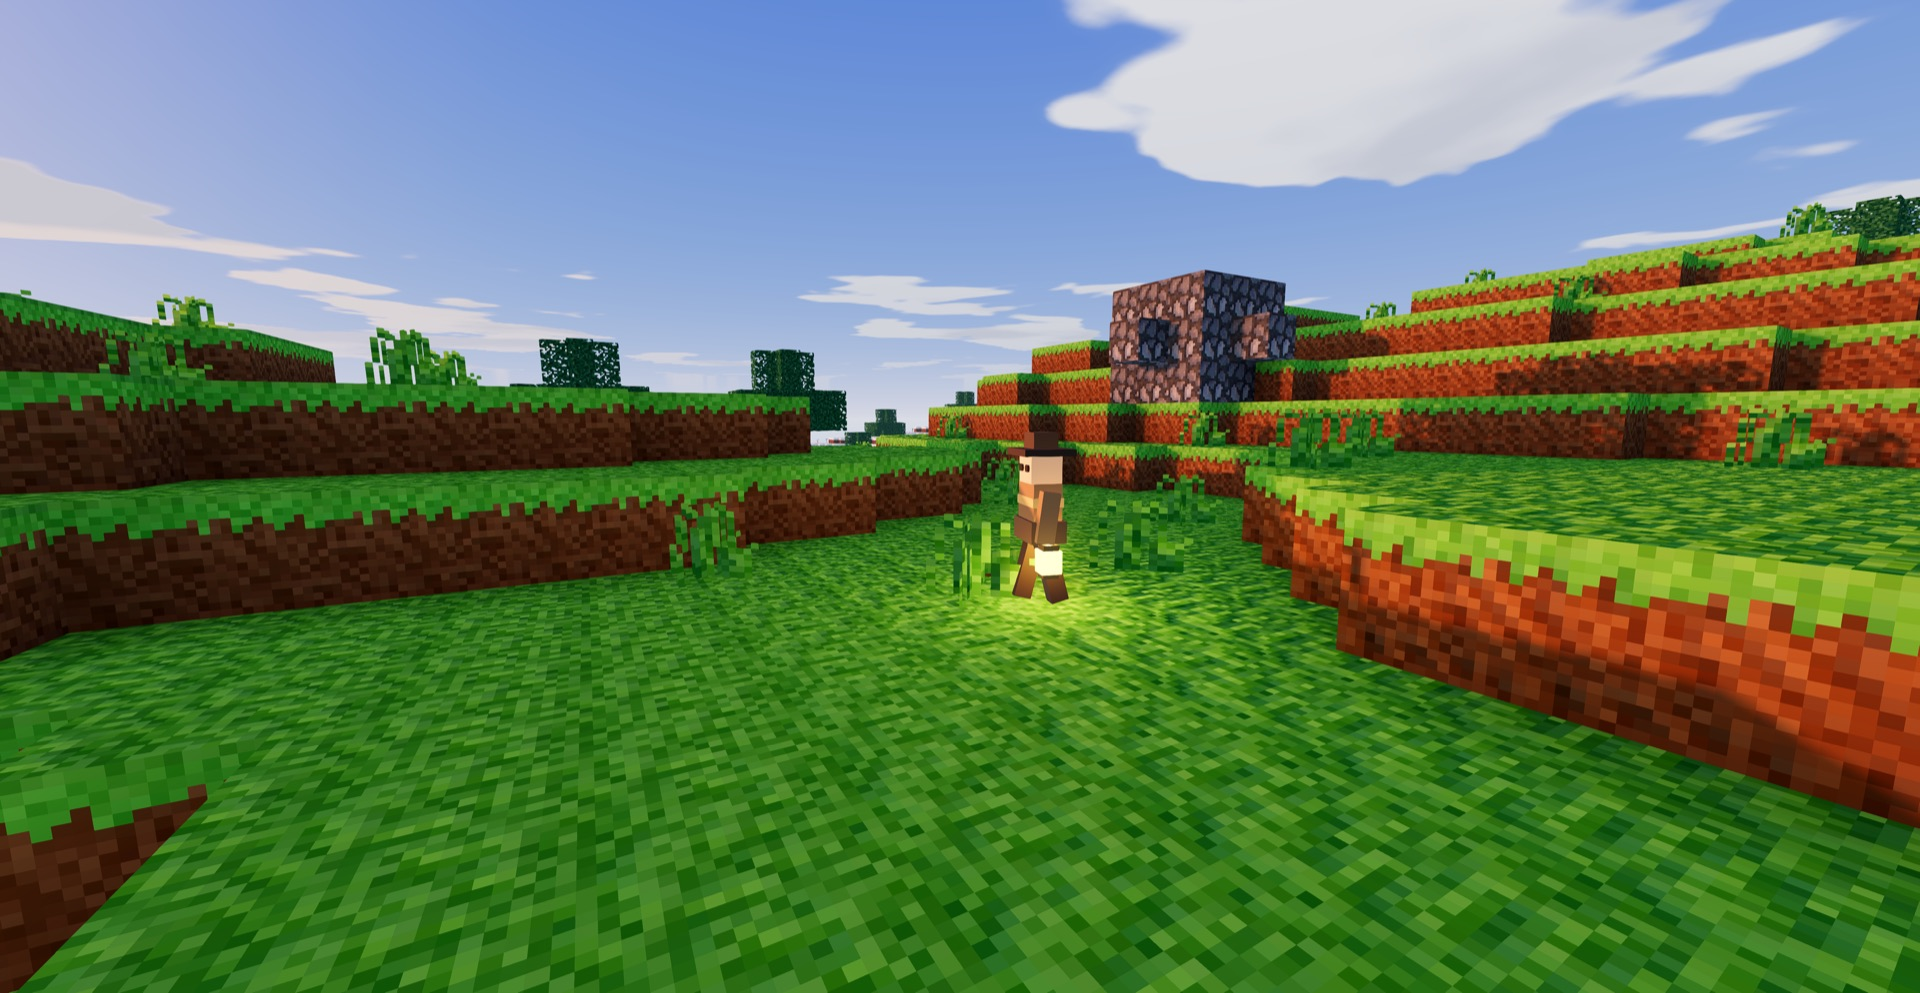
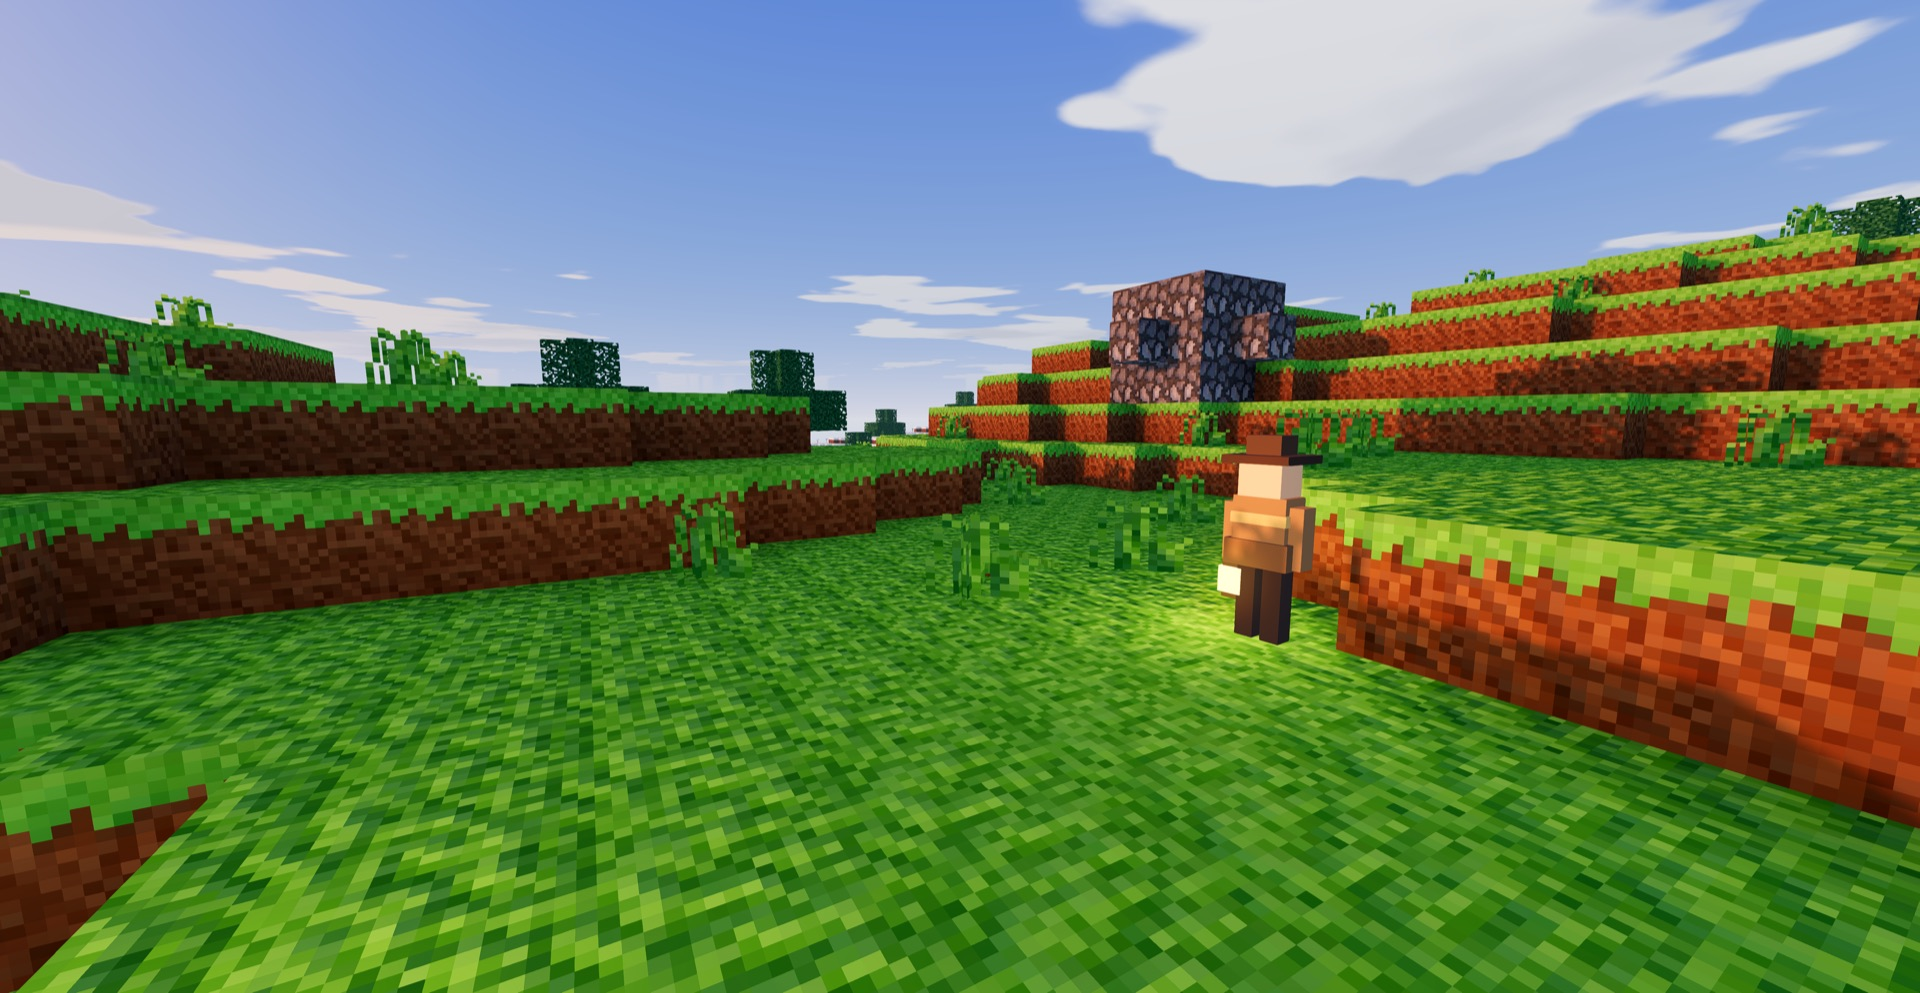
A screenshot pass, and the limit a camera runs into
The eyebrow drops the platforms, the section heading counts four worlds, and a
card with no picture keeps its column - an empty panel holds the place, so the
alternation survives and the picture drops in later without anything else
moving. Spanning the row made that game look like an afterthought.

The hero works: Wick at about 85% across, in the right half and clear of the
text scrim, at dusk, close enough to read his hat and coat with his lamp lit.

How he got there is worth recording, because it is not repeatable. /summon
spawns in front of the camera, so a summoned creature always lands dead centre;
/tp takes absolute coordinates and the spawn point is not known before the world
generates; and Wick walks, so where he is at the shutter depends on the wait.
Three seconds put him at 85%, seven put him out of frame, and summoning two gave
one perfect and one filling the lens. Trimming a side does move the subject and
costs the aspect ratio, which a full-bleed hero cannot spare, so that came out
again.

The other three could not be taken at all. Firstlight in lamplight was tried in
the descent and came back as fog with a faint Wick and no floor, because a floor
is dark and still streaming when the shutter fires. The fairground wants several
players in a running round. One Block wants machines and Creative wants
something built, and there is no setblock or fill command and only two structure
templates, both Firstlight's. All three fail for one reason: a freshly generated
[…]

diff --git a/site/landing/index.html b/site/landing/index.html
@@ -23,7 +23,7 @@
   <img class="hero-img" src="shots/hero.jpg"
        alt="A blocky valley at dusk, a lit lamp on a post and a cliff with veins of ore beyond it.">
   <div class="wrap">
-    <p class="name">Quarrowen &middot; a free block-building game for Mac and Windows</p>
+    <p class="name">Quarrowen &middot; a free block-building game</p>
     <h1>Run a world for <span>your people</span>.</h1>
     <p>Start a world and everyone you invite just clicks Join. The world brings the game with it - its
     blocks, creatures, rules, whole games - so there are no mod folders, no accounts, and nothing to
@@ -44,7 +44,7 @@
 <div class="wrap">
 
 <section id="play">
-  <h2>Same app. Three worlds. <span>Nothing installed in between.</span></h2>
+  <h2>Same app. Four worlds. <span>Nothing installed in between.</span></h2>
   <p class="sub">Each world on a server runs its own game, so you can walk through a portal out of a
   survival world and into a fairground of short games, and the app becomes that game on the way
   through. All four come in the download - play one on your own, or run them side by side and let your

diff --git a/site/landing/style.css b/site/landing/style.css
@@ -179,4 +179,9 @@
   details.under[open] summary { margin-bottom: 10px; }
   details.under p { margin: 0; }
   .lede { color: var(--ink); font-size: 17px; margin: 0 0 20px; max-width: 62ch; text-wrap: pretty; }
-  .game.no-shot { grid-template-columns: 1fr; }
+  .shot.pending {
+    display: grid; place-items: center; min-height: 190px;
+    background: linear-gradient(160deg, var(--panel-2), var(--panel));
+    border-style: dashed;
+  }
+  .shot.pending span { color: var(--muted); font-size: 13px; }

diff --git a/PROGRESS.md b/PROGRESS.md
@@ -10578,3 +10578,42 @@ The Fairground (avatars mid-round; its board currently says "Nobody has played t
 (an island part way to a factory). Both fail for one reason - **a freshly generated world has nobody in
 it and nothing built in it** - which is the same reason the portal clip needs recording rather than
 scripting. One play session gets all three.
+
+
+## A screenshot pass, and the limit it ran into (30 September 2026)
+
+Copy: the eyebrow is "Quarrowen · a free block-building game" and the section heading "Same app. Four
+worlds. Nothing installed in between." A card with no picture keeps its column now - an empty panel
+holds the place, so the left-right rhythm of the section survives and the picture drops in when it
+exists. Spanning the row made that game look like an afterthought.
+
+**The hero works.** Wick stands at about 85% across - the right half, clear of the text scrim - at
+dusk, close enough to read his hat and coat, with his lamp lit.
+
+**Getting him there was not controllable, and that is the finding.** `/summon` spawns in front of the
+camera, so a summoned creature always lands dead centre; `/tp` takes absolute coordinates and the
+spawn point is not known before the world generates; and Wick *walks*, so where he is when the shutter
+fires depends on the wait. Three seconds put him at 85%, seven put him out of frame entirely, and two
+summons gave one perfectly placed and one filling the left of the lens. Trimming a side afterwards was
+tried and does move the subject - at the cost of the aspect ratio, which a full-bleed hero cannot
+spare, so that was removed again.
+
+So the hero is a good picture taken by rolling the dice until they came up right, not a repeatable
+recipe. Worth knowing before anybody re-runs the script expecting the same frame.
+
+### What a camera could not do at all
+
+- **firstlight in lamplight or at a cave mouth.** The descent was the obvious answer and does not
+  photograph: a floor is dark and still streaming when the shutter fires, so the shot came back as fog
+  with a faint Wick in it and no floor - "meshed but not drawn", underground, with depth fog on top.
+  The meadow at dusk stands until somebody photographs a floor while playing.
+- **fairground with avatars mid-round.** Needs several players in a running round. The bot harness can
+  connect clients now, but bots wander at random and a round starts when somebody steps through a
+  door.
+- **oneblock with machines and cables**, and **creative with something built.** There is no `/setblock`
+  or `/fill`; the only structure templates that ship are firstlight's deepway chamber and altar ruin.
+  Nothing can build a factory from a command line, so these need a world somebody has played.
+
+Three of the five, then, and all three that failed failed for one reason: **a freshly generated world
+has nobody in it and nothing built in it.** That is the same sentence as the portal clip's, and one
+play session answers all of them.
